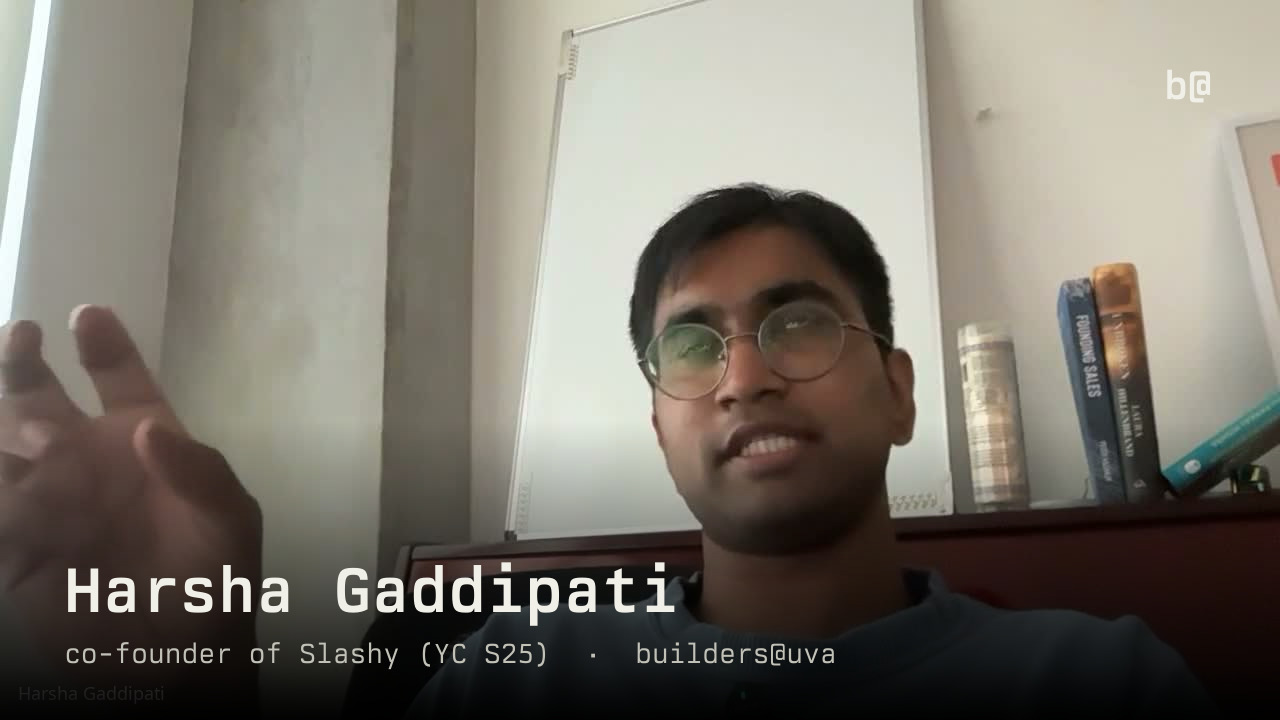
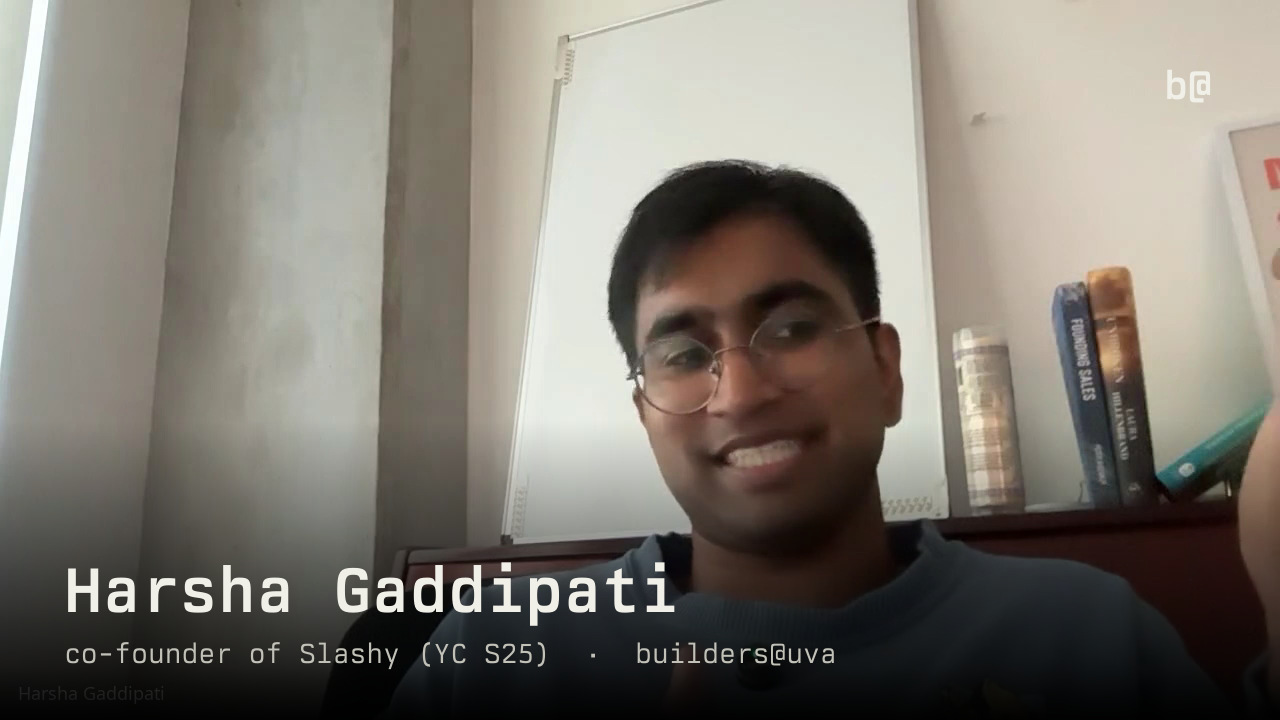
Use a smiling portrait for Harsha talk thumbnail

diff --git a/src/lib/events.js b/src/lib/events.js
@@ -161,7 +161,7 @@ export const events = [
     img: '/harsha.jpg',
     link: 'https://www.linkedin.com/in/harsha-gaddipati-032bb820a/',
     registration: 'closed',
-    video: { youtube: 'xWbcvfpUOn0', title: 'Harsha Gaddipati at builders@uva, September 24, 2026', thumbnail: '/events/harsha-gaddipati/thumbnail.jpg' },
+    video: { youtube: 'xWbcvfpUOn0', title: 'Harsha Gaddipati at builders@uva, September 24, 2026', thumbnail: '/events/harsha-gaddipati/thumbnail.jpg?v=smile' },
     photos: [
       { file: 'selfie', alt: 'Students gathered for a group selfie in the classroom after Harsha’s talk.', width: 1600, height: 2133 },
     ],
